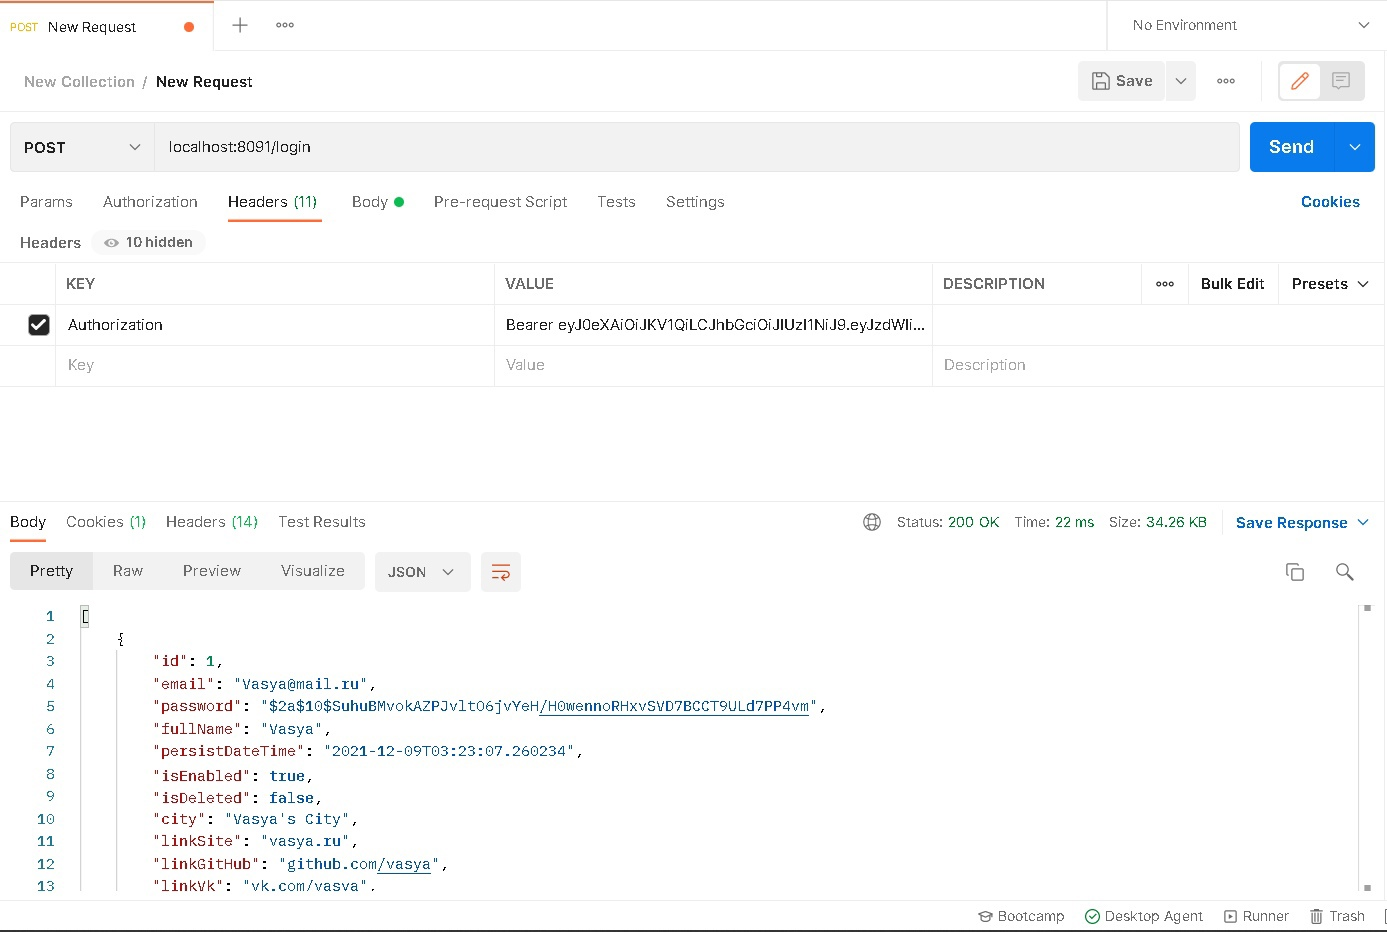
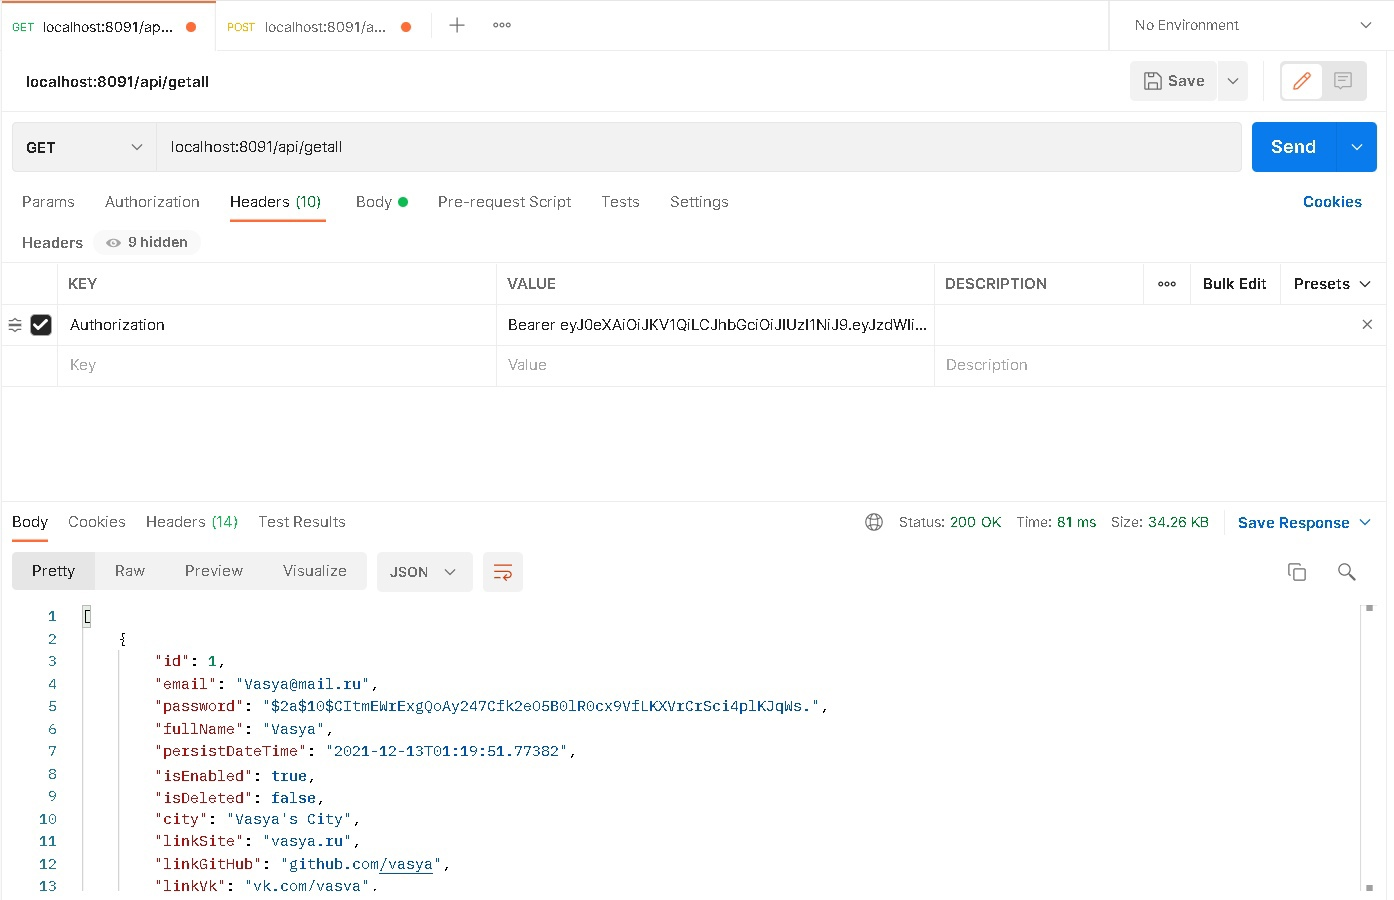
Fixed most of the problems

diff --git a/src/main/java/com/javamentor/qa/platform/webapp/controllers/rest/AuthenticationResourceController.java b/src/main/java/com/javamentor/qa/platform/webapp/controllers/rest/AuthenticationResourceController.java
@@ -4,52 +4,69 @@ import com.auth0.jwt.JWT;
 import com.auth0.jwt.algorithms.Algorithm;
 import com.javamentor.qa.platform.models.entity.user.User;
 import com.javamentor.qa.platform.service.abstracts.model.UserService;
-import lombok.AllArgsConstructor;
 import lombok.Data;
+import lombok.extern.slf4j.Slf4j;
 import org.springframework.http.ResponseEntity;
-import org.springframework.security.core.GrantedAuthority;
-import org.springframework.security.core.annotation.AuthenticationPrincipal;
-import org.springframework.web.bind.annotation.GetMapping;
-import org.springframework.web.bind.annotation.PostMapping;
-import org.springframework.web.bind.annotation.RequestMapping;
-import org.springframework.web.bind.annotation.RestController;
+import org.springframework.security.crypto.password.PasswordEncoder;
+import org.springframework.web.bind.annotation.*;
 
-import java.util.Date;
-import java.util.LinkedHashMap;
-import java.util.List;
-import java.util.Map;
-import java.util.stream.Collectors;
+import java.util.*;
 
+@Slf4j
 @RestController
 @RequestMapping("/api")
 public class AuthenticationResourceController {
 
     private final UserService userService;
+    private final PasswordEncoder encoder;
 
-    public AuthenticationResourceController(UserService userService) {
+    public AuthenticationResourceController(UserService userService, PasswordEncoder encoder) {
+        this.encoder = encoder;
         this.userService = userService;
     }
 
-    @GetMapping("/users")
+    public boolean verifyPassword(String requestPassword, String userPassword) {
+        if (!encoder.matches(requestPassword, userPassword) && !encoder.matches(userPassword, requestPassword)) {
+            log.error("Wrong Password!");
+            return false;
+        } else return true;
+    }
+
+    @GetMapping("/getall")
     public ResponseEntity<List<User>> users() {
         return ResponseEntity.ok().body(userService.getAll());
     }
 
     @GetMapping("/current")
-    public ResponseEntity<Map<String, String>> currentUser(@AuthenticationPrincipal User user) {
+    public ResponseEntity<Map<String, String>> currentUser(@RequestBody AuthenticationRequest request) {
         Map<String, String> data = new LinkedHashMap<>();
+        Optional<User> optionalUser = userService.getByEmail(request.getEmail());
+        User user = optionalUser.orElseGet(optionalUser::orElseThrow);
         data.put("email", user.getEmail());
         data.put("password", user.getPassword());
         return ResponseEntity.ok().body(data);
     }
 
     @PostMapping("/auth/token")
-    public ResponseEntity<String> token(@AuthenticationPrincipal User user) {
-        return ResponseEntity.ok().body(JWT.create()
+    public String token(@RequestBody AuthenticationRequest request) throws NullPointerException {
+        String email = request.getEmail();
+        String password = request.getPassword();
+        log.info("Email is " + email);
+
+        Optional<User> optionalUser = userService.getByEmail(email);
+        User user = optionalUser.orElseGet(optionalUser::orElseThrow);
+        if (!verifyPassword(user.getPassword(), password)) throw new NoSuchElementException("Wrong password!");
+
+        return JWT.create()
                 .withSubject(user.getEmail())
                 .withExpiresAt(new Date(System.currentTimeMillis() + 1000 * 60 * 60 * 24)) //24 hours = 1 day
-                .withClaim("roles", user.getAuthorities().stream().map(GrantedAuthority::getAuthority)
-                        .collect(Collectors.toList()))
-                .sign(Algorithm.HMAC256("PrinceNanadaime".getBytes())));
+                .withClaim("link", user.getLinkSite())
+                .sign(Algorithm.HMAC256("PrinceNanadaime".getBytes()));
+    }
+
+    @Data
+    public static class AuthenticationRequest {
+        private String email;
+        private String password;
     }
 }

diff --git a/src/main/java/com/javamentor/qa/platform/security/SecurityConfig.java b/src/main/java/com/javamentor/qa/platform/security/SecurityConfig.java
@@ -25,16 +25,14 @@ import org.springframework.web.servlet.config.annotation.WebMvcConfigurer;
 public class SecurityConfig extends WebSecurityConfigurerAdapter implements WebMvcConfigurer {
 
     private UserDetailsService userDetailsService;
-    private LoginSuccessHandler loginSuccessHandler;
     private JwtAuthorizationFilter authorizationFilter;
 
     @Autowired
     public void setUserDetailsService(@Qualifier("userDetailsServiceImpl")
-                                                  UserDetailsService userDetailsService,
-                                      LoginSuccessHandler loginSuccessHandler, JwtAuthorizationFilter filter) {
+                                              UserDetailsService userDetailsService,
+                                      JwtAuthorizationFilter filter) {
         this.authorizationFilter = filter;
         this.userDetailsService = userDetailsService;
-        this.loginSuccessHandler = loginSuccessHandler;
     }
 
     @Bean
@@ -62,30 +60,15 @@ public class SecurityConfig extends WebSecurityConfigurerAdapter implements WebM
 
     @Override
     public void configure(HttpSecurity http) throws Exception {
-        CharacterEncodingFilter filter = new CharacterEncodingFilter();
-        filter.setEncoding("UTF-8");
-        filter.setForceEncoding(true);
-        http.cors().disable();
+        CharacterEncodingFilter encodingFilter = new CharacterEncodingFilter();
+        encodingFilter.setEncoding("UTF-8");
+        encodingFilter.setForceEncoding(true);
+        http.cors().and().csrf().disable();
         http.authorizeRequests()
-                .antMatchers("/","/login","/logout","/static/**","/templates/**","/api/auth/token").permitAll()
-                .antMatchers("/api/users/**").hasAuthority("ADMIN")
-                .antMatchers("/api/user/**").hasAuthority("USER")
-
-                .antMatchers("/test/admin").hasAuthority("ADMIN")
-                .antMatchers("/test/user").hasAuthority("USER")
-
-                .anyRequest().authenticated()
+                .antMatchers("/**").permitAll()
                 .and()
-                .addFilterBefore(filter,UsernamePasswordAuthenticationFilter.class)
-                .addFilterAfter(authorizationFilter,UsernamePasswordAuthenticationFilter.class)
-                .formLogin().loginPage("/login")
-                .usernameParameter("email")
-                .passwordParameter("password")
-                .successHandler(loginSuccessHandler)
-                .and()
-                .logout()
-                .logoutUrl("/logout").logoutSuccessUrl("/login")
-                .and().csrf().disable();
+                .addFilterBefore(encodingFilter, UsernamePasswordAuthenticationFilter.class)
+                .addFilterAfter(authorizationFilter, UsernamePasswordAuthenticationFilter.class);
     }
 
     @Override

diff --git a/src/main/java/com/javamentor/qa/platform/security/JwtAuthorizationFilter.java b/src/main/java/com/javamentor/qa/platform/security/JwtAuthorizationFilter.java
@@ -3,6 +3,7 @@ package com.javamentor.qa.platform.security;
 import com.auth0.jwt.JWT;
 import com.auth0.jwt.algorithms.Algorithm;
 import lombok.NonNull;
+import lombok.extern.slf4j.Slf4j;
 import org.codehaus.jackson.map.ObjectMapper;
 import org.springframework.stereotype.Component;
 import org.springframework.web.filter.OncePerRequestFilter;
@@ -20,6 +21,7 @@ import static org.springframework.http.HttpHeaders.AUTHORIZATION;
 import static org.springframework.http.HttpStatus.FORBIDDEN;
 import static org.springframework.http.MediaType.APPLICATION_JSON_VALUE;
 
+@Slf4j
 @Component
 public class JwtAuthorizationFilter extends OncePerRequestFilter {
 
@@ -29,15 +31,14 @@ public class JwtAuthorizationFilter extends OncePerRequestFilter {
     protected void doFilterInternal(HttpServletRequest request, @NonNull HttpServletResponse response,
                                     @NonNull FilterChain filterChain) throws ServletException, IOException, NullPointerException {
         String path = request.getServletPath();
-        if (path.equals("/api/auth/token") || path.equals("/login")) {
+        if (path.equals("/api/auth/token")) {
             filterChain.doFilter(request, response);
         } else {
             String authHeader = request.getHeader(AUTHORIZATION);
             if (authHeader != null && authHeader.startsWith("Bearer ")) {
                 try {
                     String token = authHeader.substring("Bearer ".length());
-                    Algorithm algorithm = Algorithm.HMAC256("PrinceNanadaime".getBytes());
-                    JWT.require(algorithm).build().verify(token);
+                    JWT.require(Algorithm.HMAC256("PrinceNanadaime".getBytes())).build().verify(token);
                     filterChain.doFilter(request, response);
                 } catch (Exception e) {
                     response.setHeader("Error", e.getMessage());

diff --git a/src/test/java/com/javamentor/qa/platform/JwtTokenTest.java b/src/test/java/com/javamentor/qa/platform/JwtTokenTest.java
@@ -1,0 +1,40 @@
+package com.javamentor.qa.platform;
+
+import org.junit.jupiter.api.Test;
+
+import java.io.BufferedReader;
+import java.io.IOException;
+import java.io.InputStreamReader;
+import java.io.OutputStream;
+import java.net.HttpURLConnection;
+import java.net.URL;
+import java.nio.charset.StandardCharsets;
+
+public class JwtTokenTest {
+
+    @Test
+    public void JwtProcessing() throws IOException {
+        URL url = new URL("https://localhost:8091/api/auth/token");
+        HttpURLConnection con = (HttpURLConnection) url.openConnection();
+        con.setRequestMethod("POST");
+        con.setRequestProperty("Content-Type", "application/json; utf-8");
+        con.setRequestProperty("Accept", "application/json");
+        con.setDoOutput(true);
+        StringBuilder jsonInputString = new StringBuilder();
+        jsonInputString.append("{").append("email").append(": ").append("123@mail.ru")
+                .append(", ").append("password").append(": ").append("123").append("}");
+        try (OutputStream os = con.getOutputStream()) {
+            byte[] input = jsonInputString.toString().getBytes(StandardCharsets.UTF_8);
+            os.write(input, 0, input.length);
+        }
+        try (BufferedReader br = new BufferedReader(
+                new InputStreamReader(con.getInputStream(), StandardCharsets.UTF_8))) {
+            StringBuilder response = new StringBuilder();
+            String responseLine;
+            while ((responseLine = br.readLine()) != null) {
+                response.append(responseLine.trim());
+            }
+            System.out.println(response);
+        }
+    }
+}

diff --git a/src/test/java/com/javamentor/qa/platform/api/ExampleTest.java b/src/test/java/com/javamentor/qa/platform/api/ExampleTest.java
@@ -1,18 +1,12 @@
 package com.javamentor.qa.platform.api;
 
 import com.github.database.rider.core.api.dataset.DataSet;
-import com.github.database.rider.junit5.api.DBRider;
 import com.javamentor.qa.platform.AbstractApiTest;
 import com.javamentor.qa.platform.webapp.controllers.rest.TestController;
 import org.junit.jupiter.api.Test;
 import org.springframework.beans.factory.annotation.Autowired;
 import org.springframework.test.web.servlet.request.MockMvcRequestBuilders;
 
-
-import java.util.ArrayList;
-import java.util.List;
-
-import static org.assertj.core.api.Assertions.assertThat;
 import static org.springframework.test.web.servlet.result.MockMvcResultHandlers.print;
 import static org.springframework.test.web.servlet.result.MockMvcResultMatchers.content;
 import static org.springframework.test.web.servlet.result.MockMvcResultMatchers.status;

diff --git a/src/main/java/com/javamentor/qa/platform/webapp/configs/JmApplication.java b/src/main/java/com/javamentor/qa/platform/webapp/configs/JmApplication.java
@@ -3,10 +3,7 @@ package com.javamentor.qa.platform.webapp.configs;
 import org.springframework.boot.SpringApplication;
 import org.springframework.boot.autoconfigure.SpringBootApplication;
 import org.springframework.boot.autoconfigure.domain.EntityScan;
-import org.springframework.boot.context.properties.EnableConfigurationProperties;
 import org.springframework.context.annotation.ComponentScan;
-import org.springframework.context.annotation.Profile;
-import org.springframework.core.env.SimpleCommandLinePropertySource;
 
 @SpringBootApplication
 @ComponentScan("com.javamentor.qa.platform")

diff --git a/src/main/java/com/javamentor/qa/platform/security/UserDetailsServiceImpl.java b/src/main/java/com/javamentor/qa/platform/security/UserDetailsServiceImpl.java
@@ -1,8 +1,7 @@
-package com.javamentor.qa.platform.service.impl.model;
+package com.javamentor.qa.platform.security;
 
 import com.javamentor.qa.platform.dao.abstracts.model.UserDao;
 import com.javamentor.qa.platform.models.entity.user.User;
-import com.javamentor.qa.platform.service.abstracts.model.UserService;
 import org.springframework.security.core.userdetails.UserDetails;
 import org.springframework.security.core.userdetails.UserDetailsService;
 import org.springframework.security.core.userdetails.UsernameNotFoundException;

diff --git a/src/main/java/com/javamentor/qa/platform/models/entity/user/User.java b/src/main/java/com/javamentor/qa/platform/models/entity/user/User.java
@@ -76,7 +76,7 @@ public class User implements UserDetails {
     @Column
     private String nickname;
 
-    @ManyToOne(fetch = FetchType.EAGER, targetEntity = Role.class, cascade = {CascadeType.REFRESH})
+    @ManyToOne(fetch = FetchType.LAZY, targetEntity = Role.class, cascade = {CascadeType.REFRESH})
     @JoinColumn(name = "role_id", nullable = false)
     @NonNull
     private Role role;

diff --git a/src/main/java/com/javamentor/qa/platform/service/impl/TestDataInitService.java b/src/main/java/com/javamentor/qa/platform/service/impl/TestDataInitService.java
@@ -37,8 +37,8 @@ public class TestDataInitService {
 
     @PostConstruct // потом убрать @PostConstruct
     private void init() {
-        //flyway.clean();
-        //flyway.migrate();
+        flyway.clean();
+        flyway.migrate();
         addRole();
         addUser();
         addTag();
